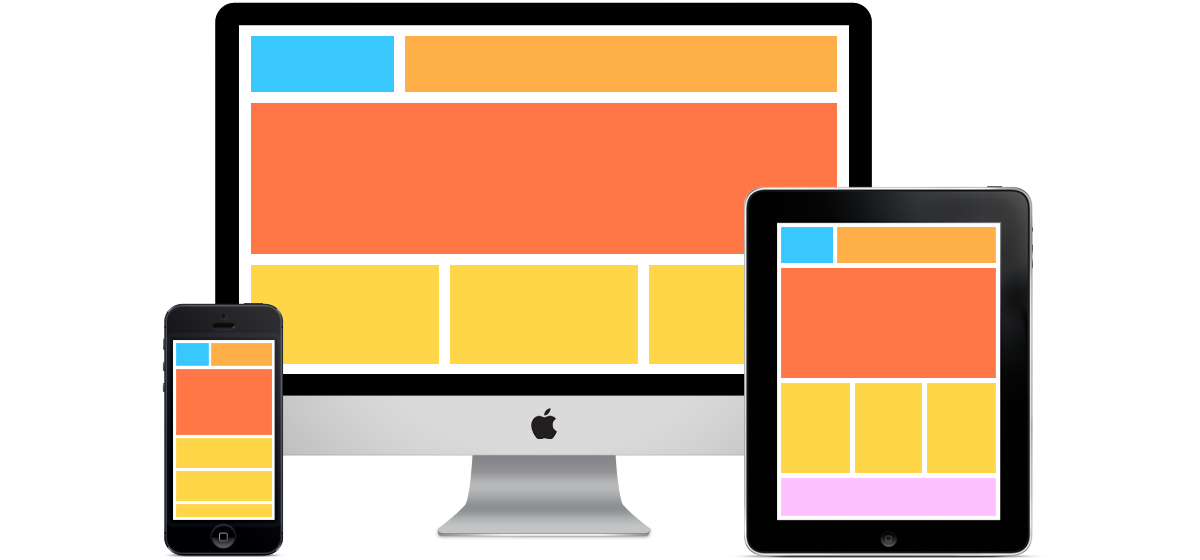
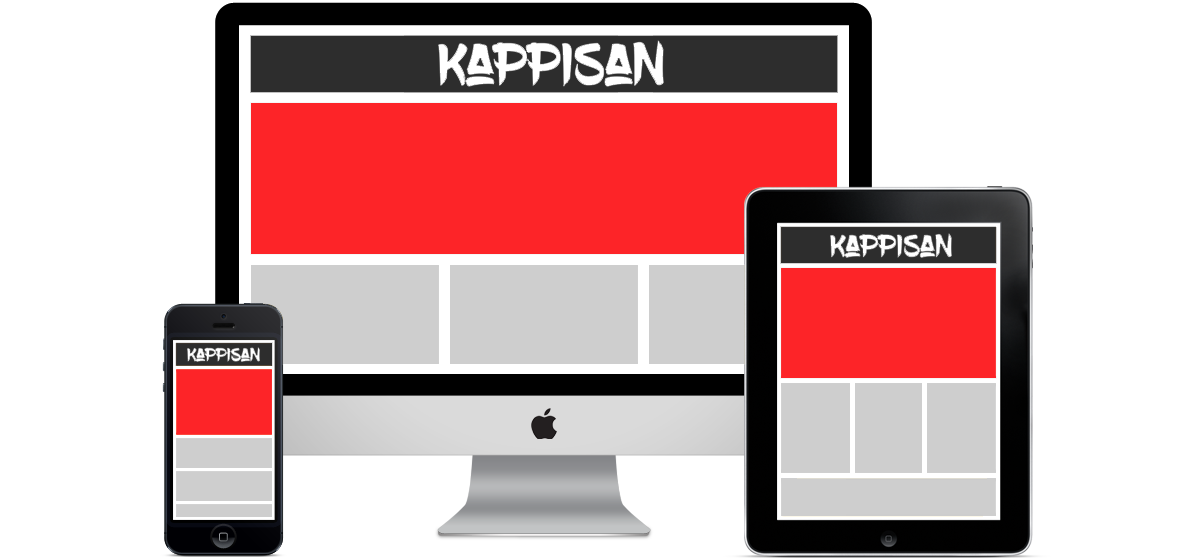
improve design

diff --git a/static/templates/services.html b/static/templates/services.html
@@ -53,7 +53,7 @@
             <figure><img src="./img/services/data_visualization.jpg" class="release-thumbnail"></figure>
             <div class="release-text">
                 <a class="hvr-grow-rotate"><h2 class="release-title">Analytics and User Interaction</h2></a><br>
-                <p class="release-text">Site analytics lets you measure your advertising ROI as well as track your Flash, video, and social networking sites and applications.</p><br>
+                <p class="release-text">Measure your advertising ROI as well as track your Flash, video, and social networking sites and applications.</p><br>
             </div>
         </div>
 
@@ -86,6 +86,14 @@
             <div class="release-text">
                 <a class="hvr-grow-rotate"><h2 class="release-title">Site Maintanence</h2></a><br>
                 <p class="release-text">Modify and update existing sites. Modernizing and fixing bugs.</p><br>
+            </div>
+        </div>
+
+        <div class="release">
+            <figure><img src="./img/services/social-media-icons-stacked.png" class="release-thumbnail"></figure>
+            <div class="release-text">
+                <a class="hvr-grow-rotate"><h2 class="release-title">Social Media Integration</h2></a><br>
+                <p class="release-text">Connect your website to Facebook, Twitter, Instagram, Google and many more social media API's.</p><br>
             </div>
         </div>
 

diff --git a/static/style/main.css b/static/style/main.css
@@ -47,7 +47,6 @@ a:visited {
 h1, h2 {
     padding: 30px 0;
     font-family: luna;
-    margin: 60px 0;
 }
 
 p {
@@ -69,17 +68,19 @@ p {
 #services-link {
     position: absolute;
     right: 40px;
-    top: 70px;
+    top: 60px;
     color: #fff;
-    font-size: 36px;
+    font-size: 32px;
+    font-family: luna;
 }
 
 #about-link {
     position: absolute;
-    right: 240px;
-    top: 70px;
+    right: 280px;
+    top: 60px;
     color: #fff;
-    font-size: 36px;
+    font-size: 32px;
+    font-family: luna;
 }
 
 #services-link:hover {
@@ -111,15 +112,30 @@ p {
     background-attachment: fixed;
 }
 
-.learn-more {
+.learn-more-button {
     border-radius: 50px;
     width: 400px;
     height: 80px;
-    font-size: 40px;
+    font-size: 32px;
     text-anchor: middle;
-    background-color: #ed1c24;
     color: #fff;
     margin: 40px 0 80px 0;
+    border-width: 0;
+    font-family: luna;
+    padding: 12px;
+}
+
+.learn-more-button {
+    background-color: #ed1c24;
+    -webkit-transition-duration: 0.5s; /* Safari */
+    transition-duration: 0.2s;
+}
+
+.learn-more-button:hover {
+    cursor: pointer;
+    background-color: #ffd647;
+    -webkit-transition-duration: 0.5s; /* Safari */
+    transition-duration: 0.3s;
 }
 
 .me-pointing {
@@ -147,7 +163,7 @@ p {
 }
 
 .first-section h1 {
-    color: #ed1c24;
+    /*color: #ed1c24;*/
     font-weight: bold;
 }
 

diff --git a/static/templates/home.html b/static/templates/home.html
@@ -4,15 +4,15 @@
 <div class="billboard-section"></div>
 
 <div class="about-section">
-    <h1 class="centered">kappisan</h1>
+    <h1 class="centered">Custom Websites</h1>
     <div class="about-box">
         <p>Kappisan is a small company that specialises in website design, website development, ecommerce website development, content management systems, conversion optimisation, app development, video production and hosting.</p>
         
         <img src="./img/design.png">
 
-        <p>Based in Ipswich, UK, kappisan is a design firm specializing in the development and deployment of custom websites and API's tailored to any business need.</p>
+        <p>Based in Ipswich, UK, kappisan is a design firm specializing in the development and deployment of professional, custom websites and API's tailored to any business need.</p>
 
-        <center><button class="learn-more">Learn More</button></center>
+        <center><a href="#/services"><button class="learn-more-button">Learn More</button></a></center>
     </div>
 </div>
 

diff --git a/static/templates/about.html b/static/templates/about.html
@@ -3,7 +3,7 @@
         
 	<p>Kappisan is a small company that specialises in website design, website development, ecommerce website development, content management systems, conversion optimisation, app development, video production and hosting.</p>
 
-    <img src="./img/work-me.jpg" style="width:100%;">
+    <img src="./img/work-me.png" style="width:100%;">
 
     <p>Based in Ipswich, UK, kappisan is a design firm specializing in the development and deployment of custom websites and API's tailored to any business need.</p>
 </div>
